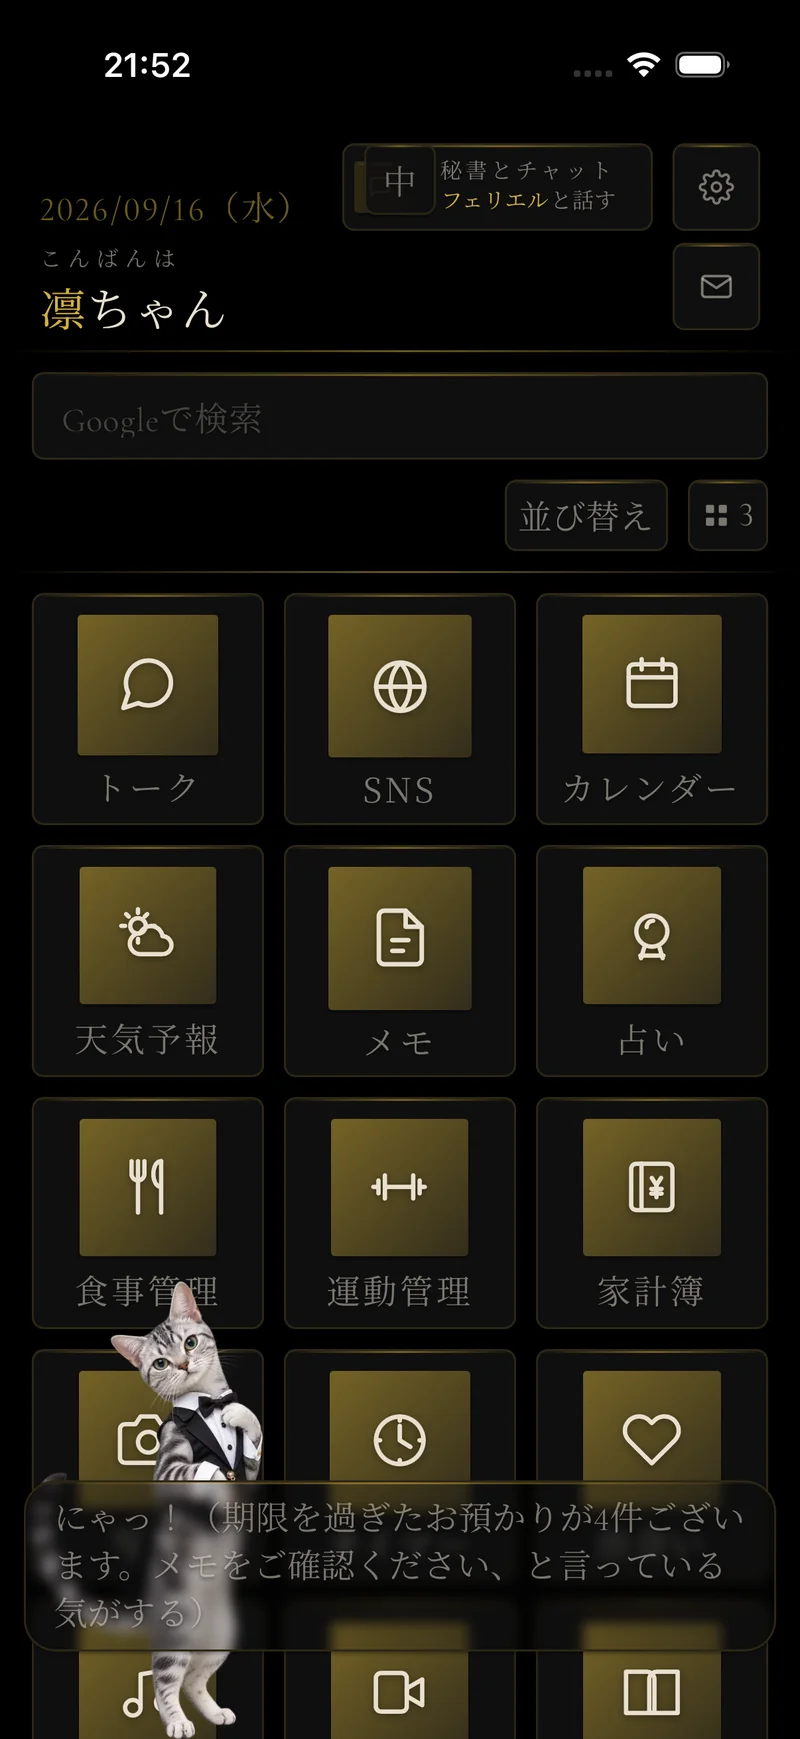
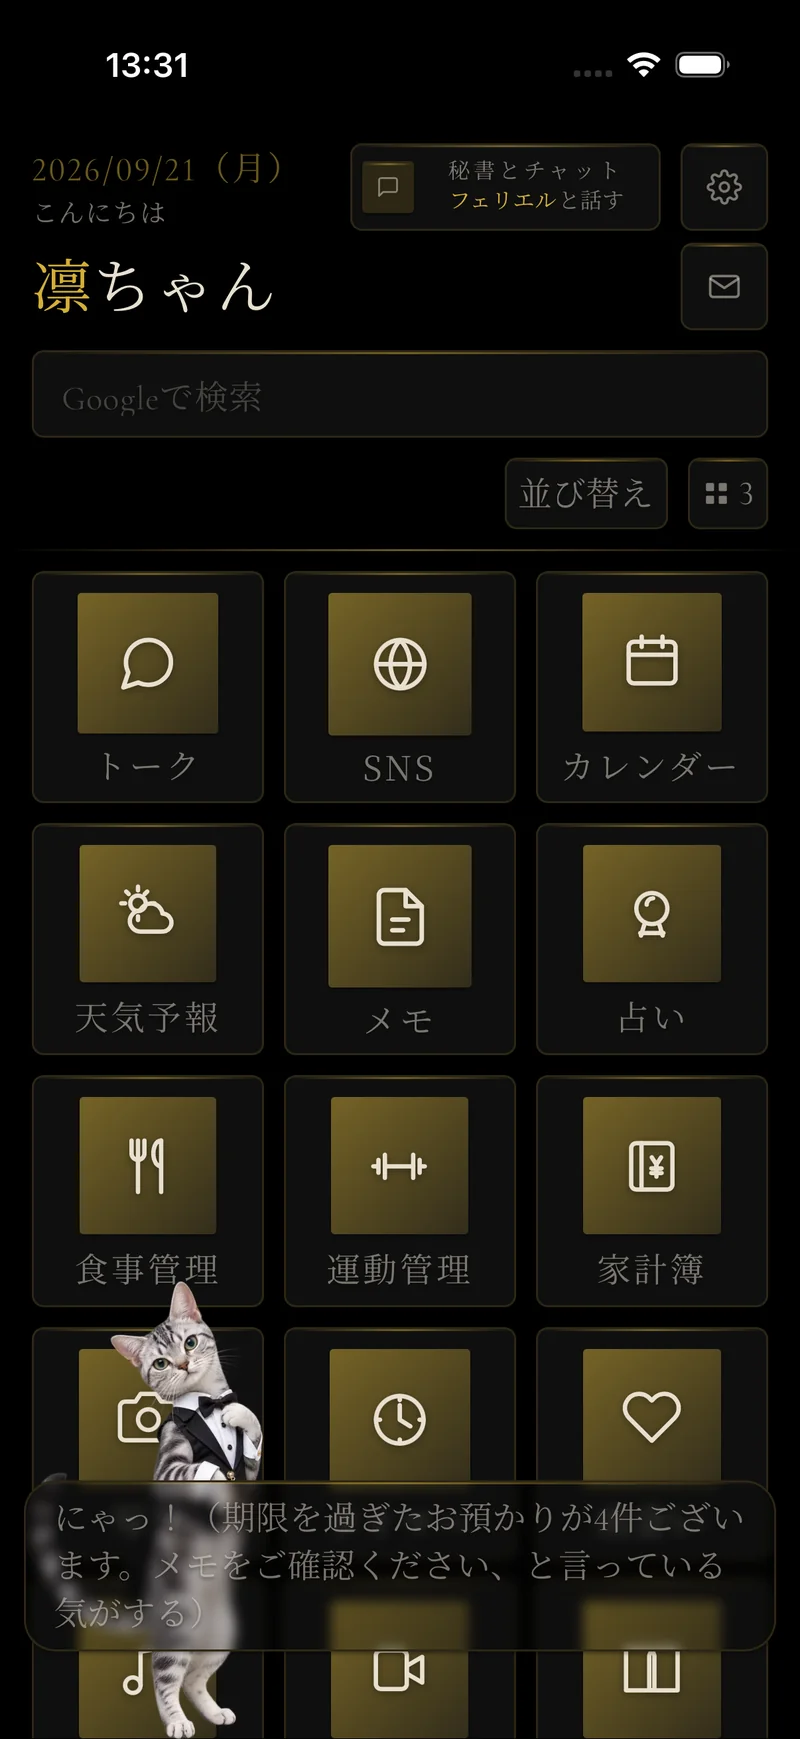
コラボページ＝フェリエルの実装例2枚を撮り直し（開発用スイッチを写さない・キャッシュ版 v=20260921）

diff --git a/pages/collab/index.html b/pages/collab/index.html
@@ -55,14 +55,14 @@
           </p>
           <div style="display:flex; gap:20px; justify-content:center; flex-wrap:wrap; margin:24px 0 8px;">
             <figure style="margin:0; width:min(46%, 280px);">
-              <img src="../../assets/images/collab-home-feliel.webp" alt="ホーム画面の実装例（フェリエルが鳴き声と訳文で知らせる）"
+              <img src="../../assets/images/collab-home-feliel.webp?v=20260921" alt="ホーム画面の実装例（フェリエルが鳴き声と訳文で知らせる）"
                    style="width:100%; height:auto; display:block; border:1px solid var(--border, #e5e3de); border-radius:18px;">
               <figcaption style="font-size:0.85rem; color:var(--text-muted, #999); line-height:1.9; margin-top:8px;">
                 ホーム画面。お知らせも「鳴き声（訳文、と言っている気がする）」の形で表示されます。
               </figcaption>
             </figure>
             <figure style="margin:0; width:min(46%, 280px);">
-              <img src="../../assets/images/collab-talk-feliel.webp" alt="トーク画面の実装例（立ち絵を背景にフェリエルと会話）"
+              <img src="../../assets/images/collab-talk-feliel.webp?v=20260921" alt="トーク画面の実装例（立ち絵を背景にフェリエルと会話）"
                    style="width:100%; height:auto; display:block; border:1px solid var(--border, #e5e3de); border-radius:18px;">
               <figcaption style="font-size:0.85rem; color:var(--text-muted, #999); line-height:1.9; margin-top:8px;">
                 トーク画面。挨拶やお礼への返事も、鳴き声と訳文の組み合わせで返します。
